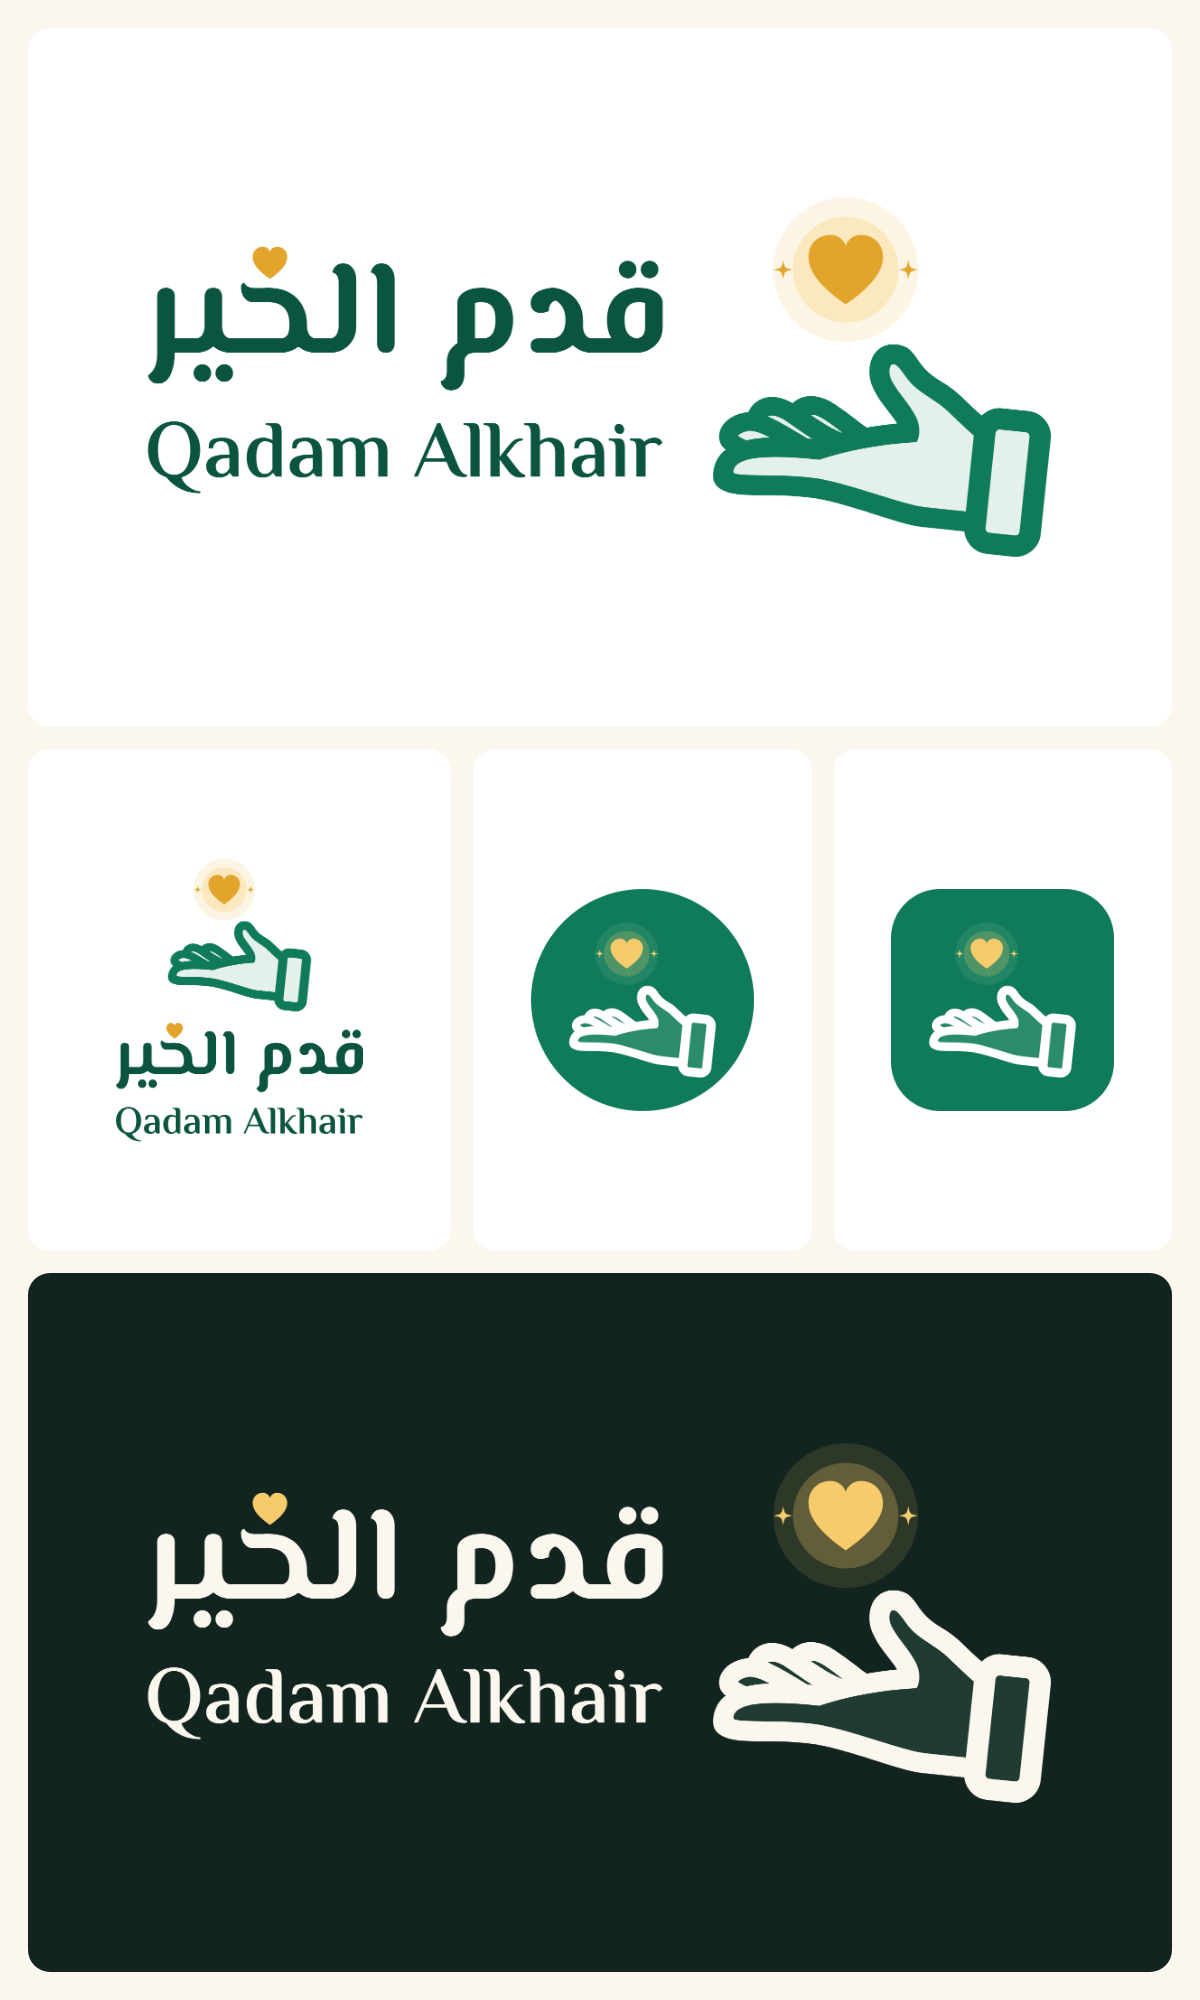
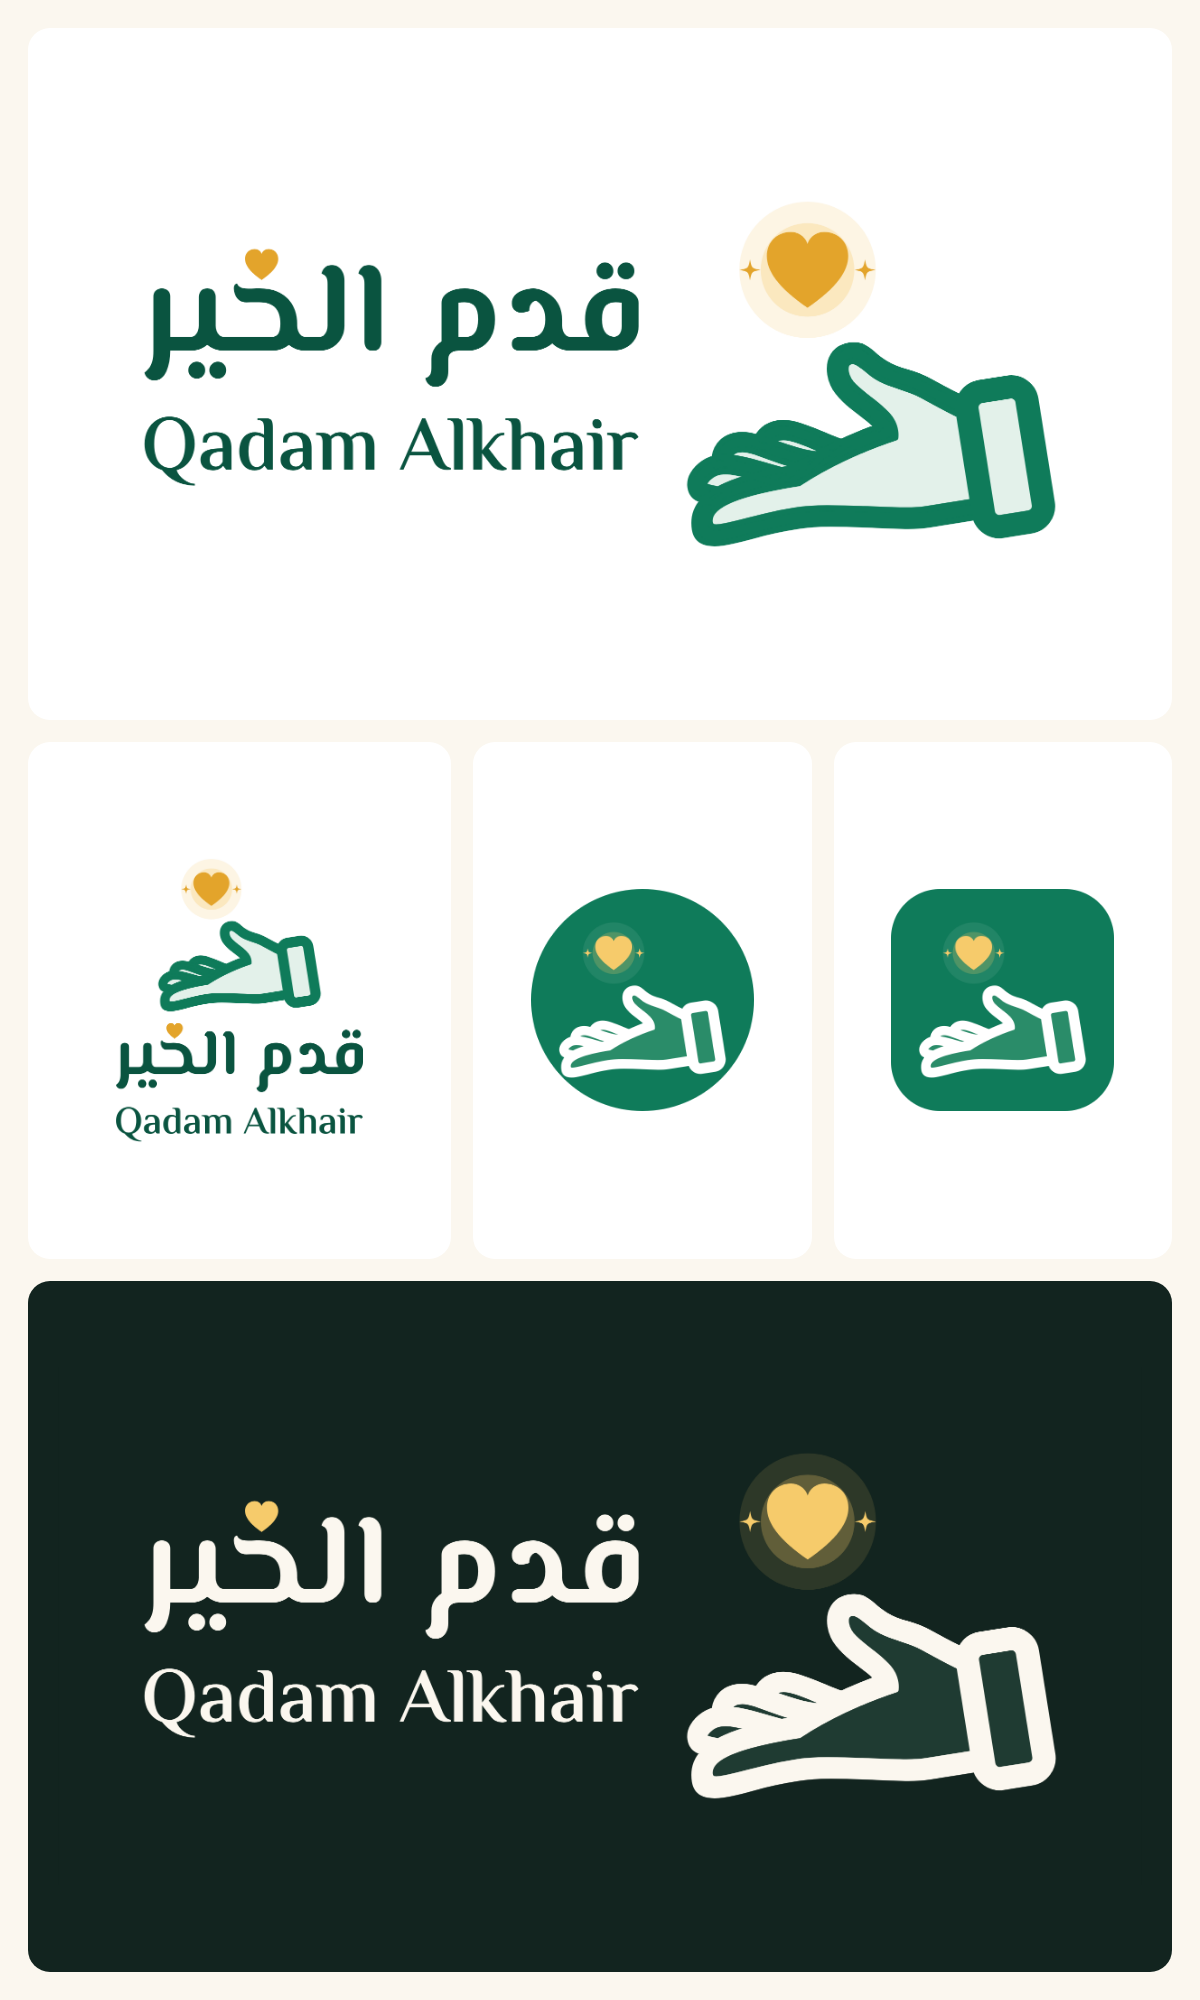
Option ج: raise the hand from the wrist, not the fingers
The hand now tilts the other way: the wrist rises and the fingers reach
forward and down, presenting the heart.

Claude-Session: https://claude.ai/code/session_01LFEZLNbpHHcGTMFhSMiQaG

diff --git a/brand/qadam-alkhair/explorations/hands-src/c2_final.py b/brand/qadam-alkhair/explorations/hands-src/c2_final.py
@@ -7,7 +7,7 @@ from shot import shot
 OUT = sys.argv[1] if len(sys.argv) > 1 else "c2out"
 os.makedirs(OUT, exist_ok=True)
 C = K.C
-SHAPE = dict(rot=6)
+SHAPE = dict(rot=-9, heart=(84, 64))
 LIGHT = dict(SHAPE)
 DARK = dict(SHAPE, green=C["cream"], gold=C["gold_lt"], tint="#1F3B32", bg=C["ink"],
             glow=(C["gold_lt"], C["gold_lt"]), glow_op=(0.12, 0.26))
